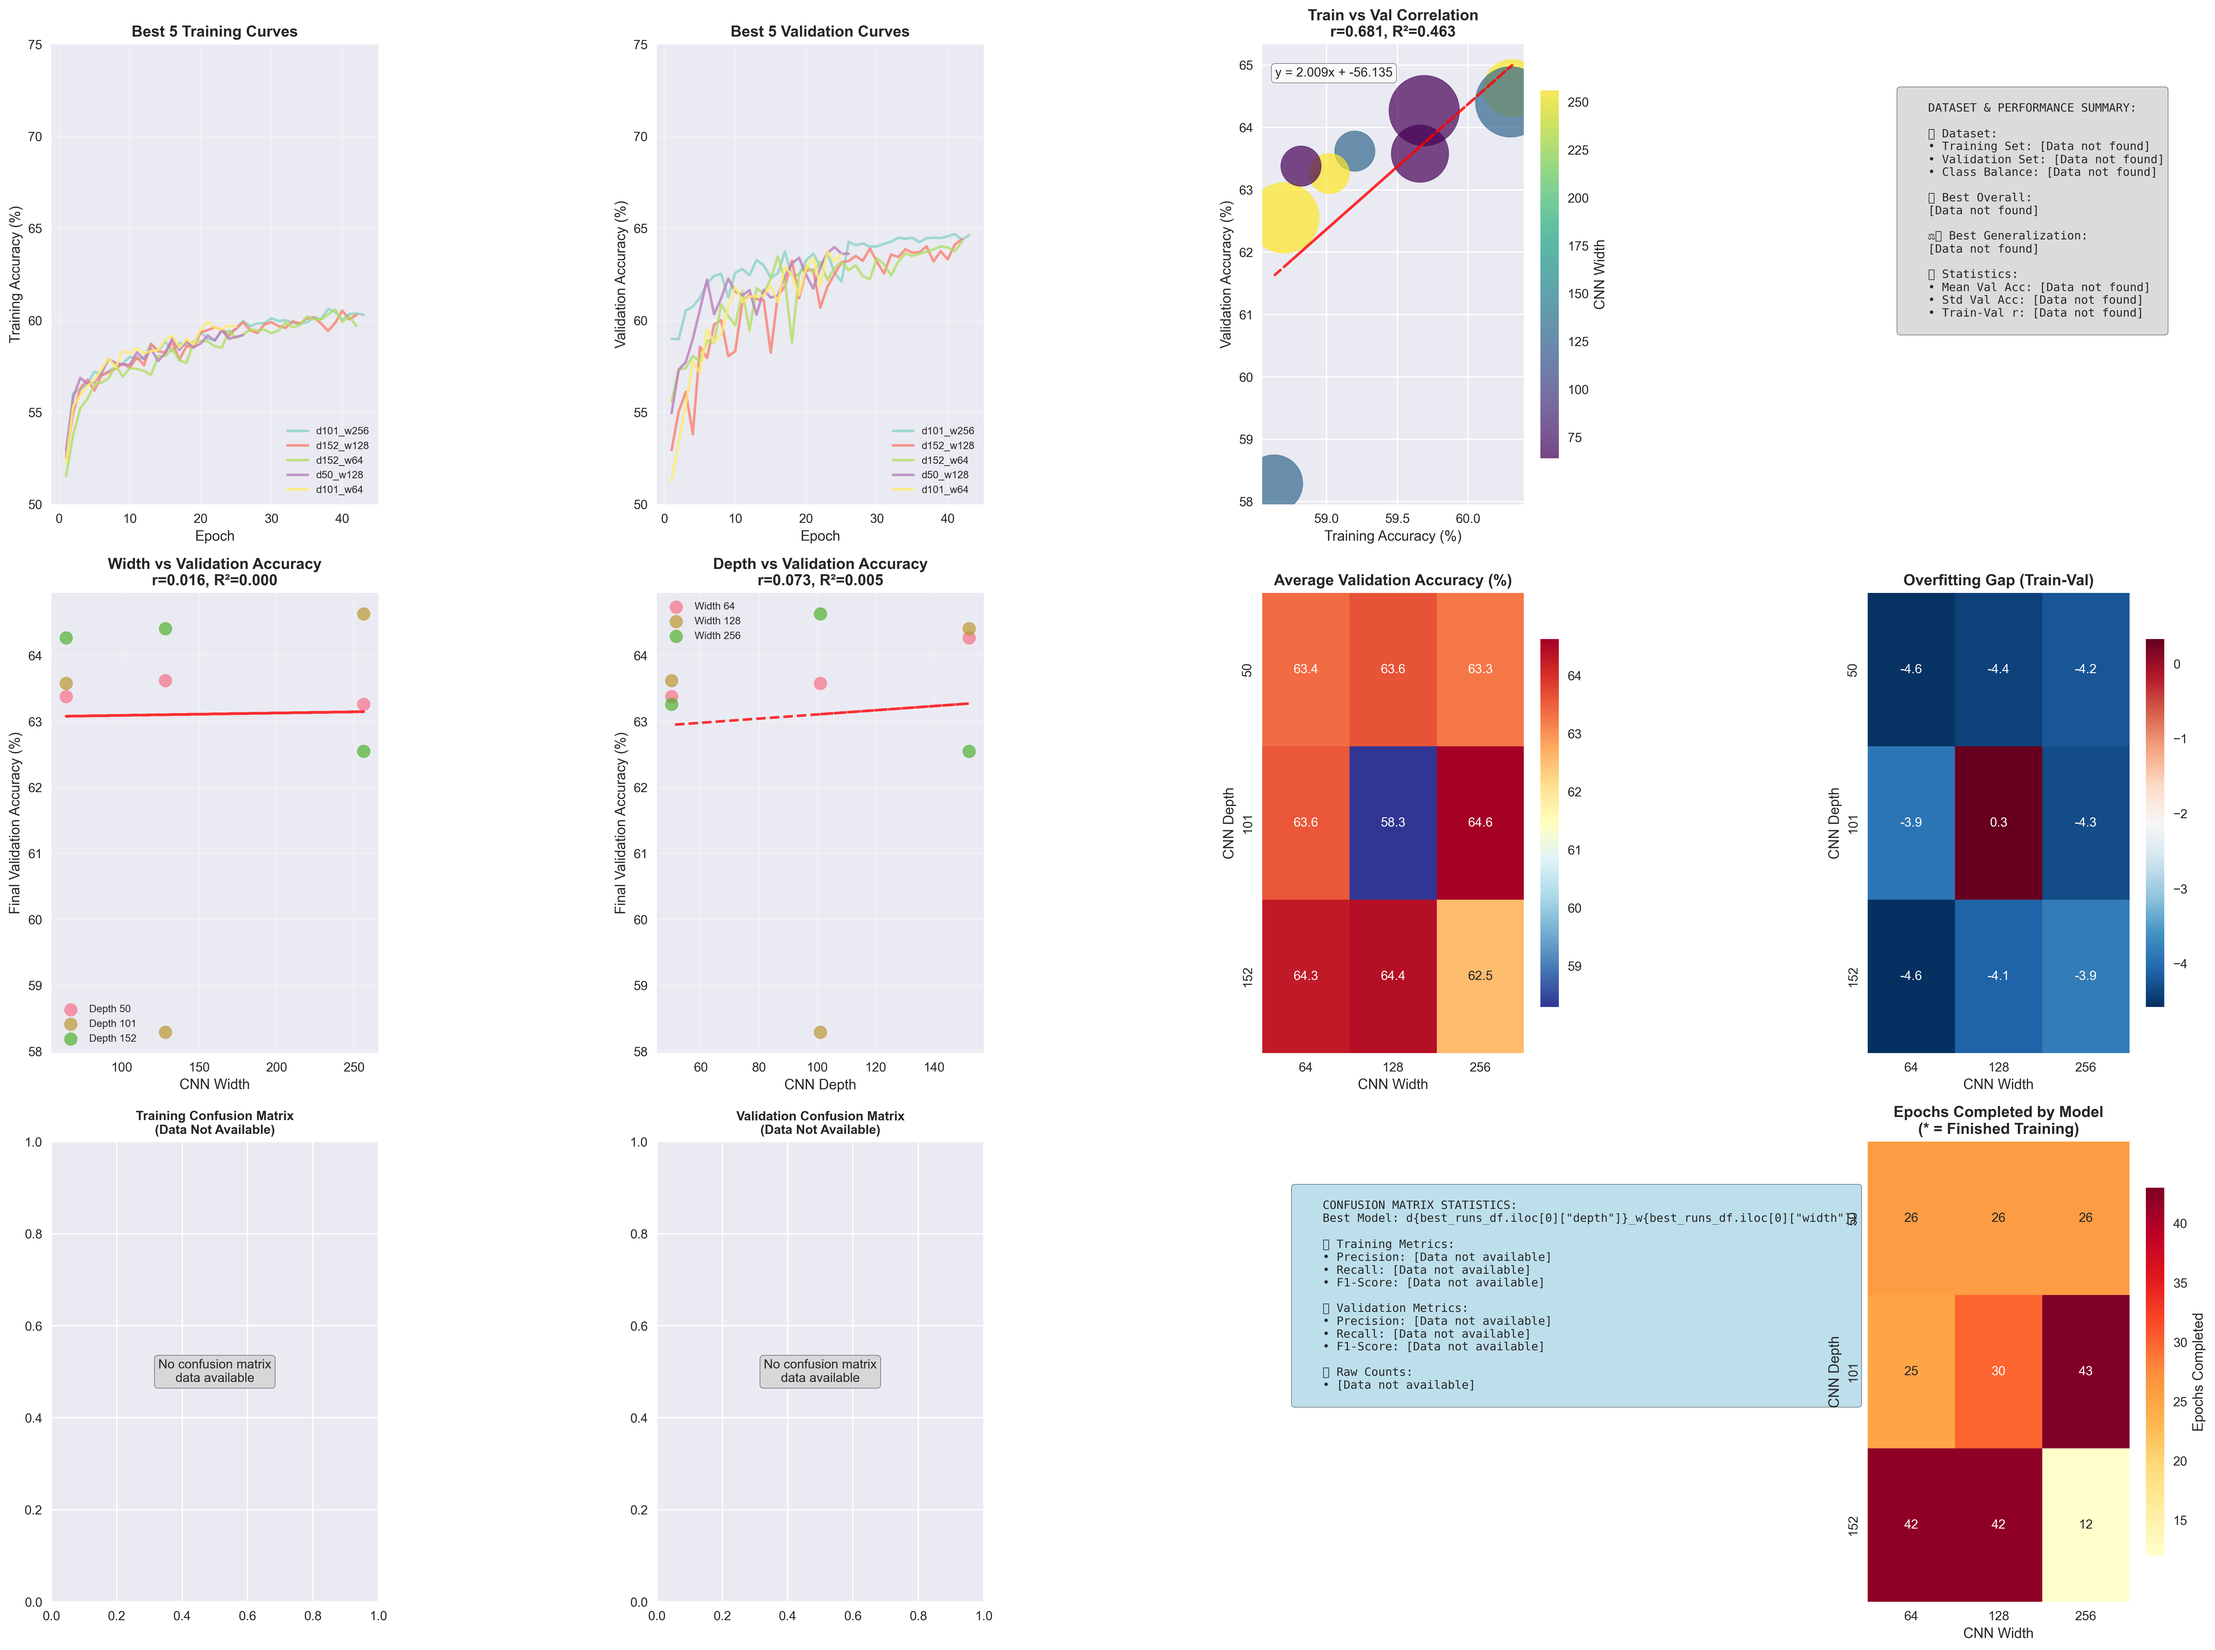
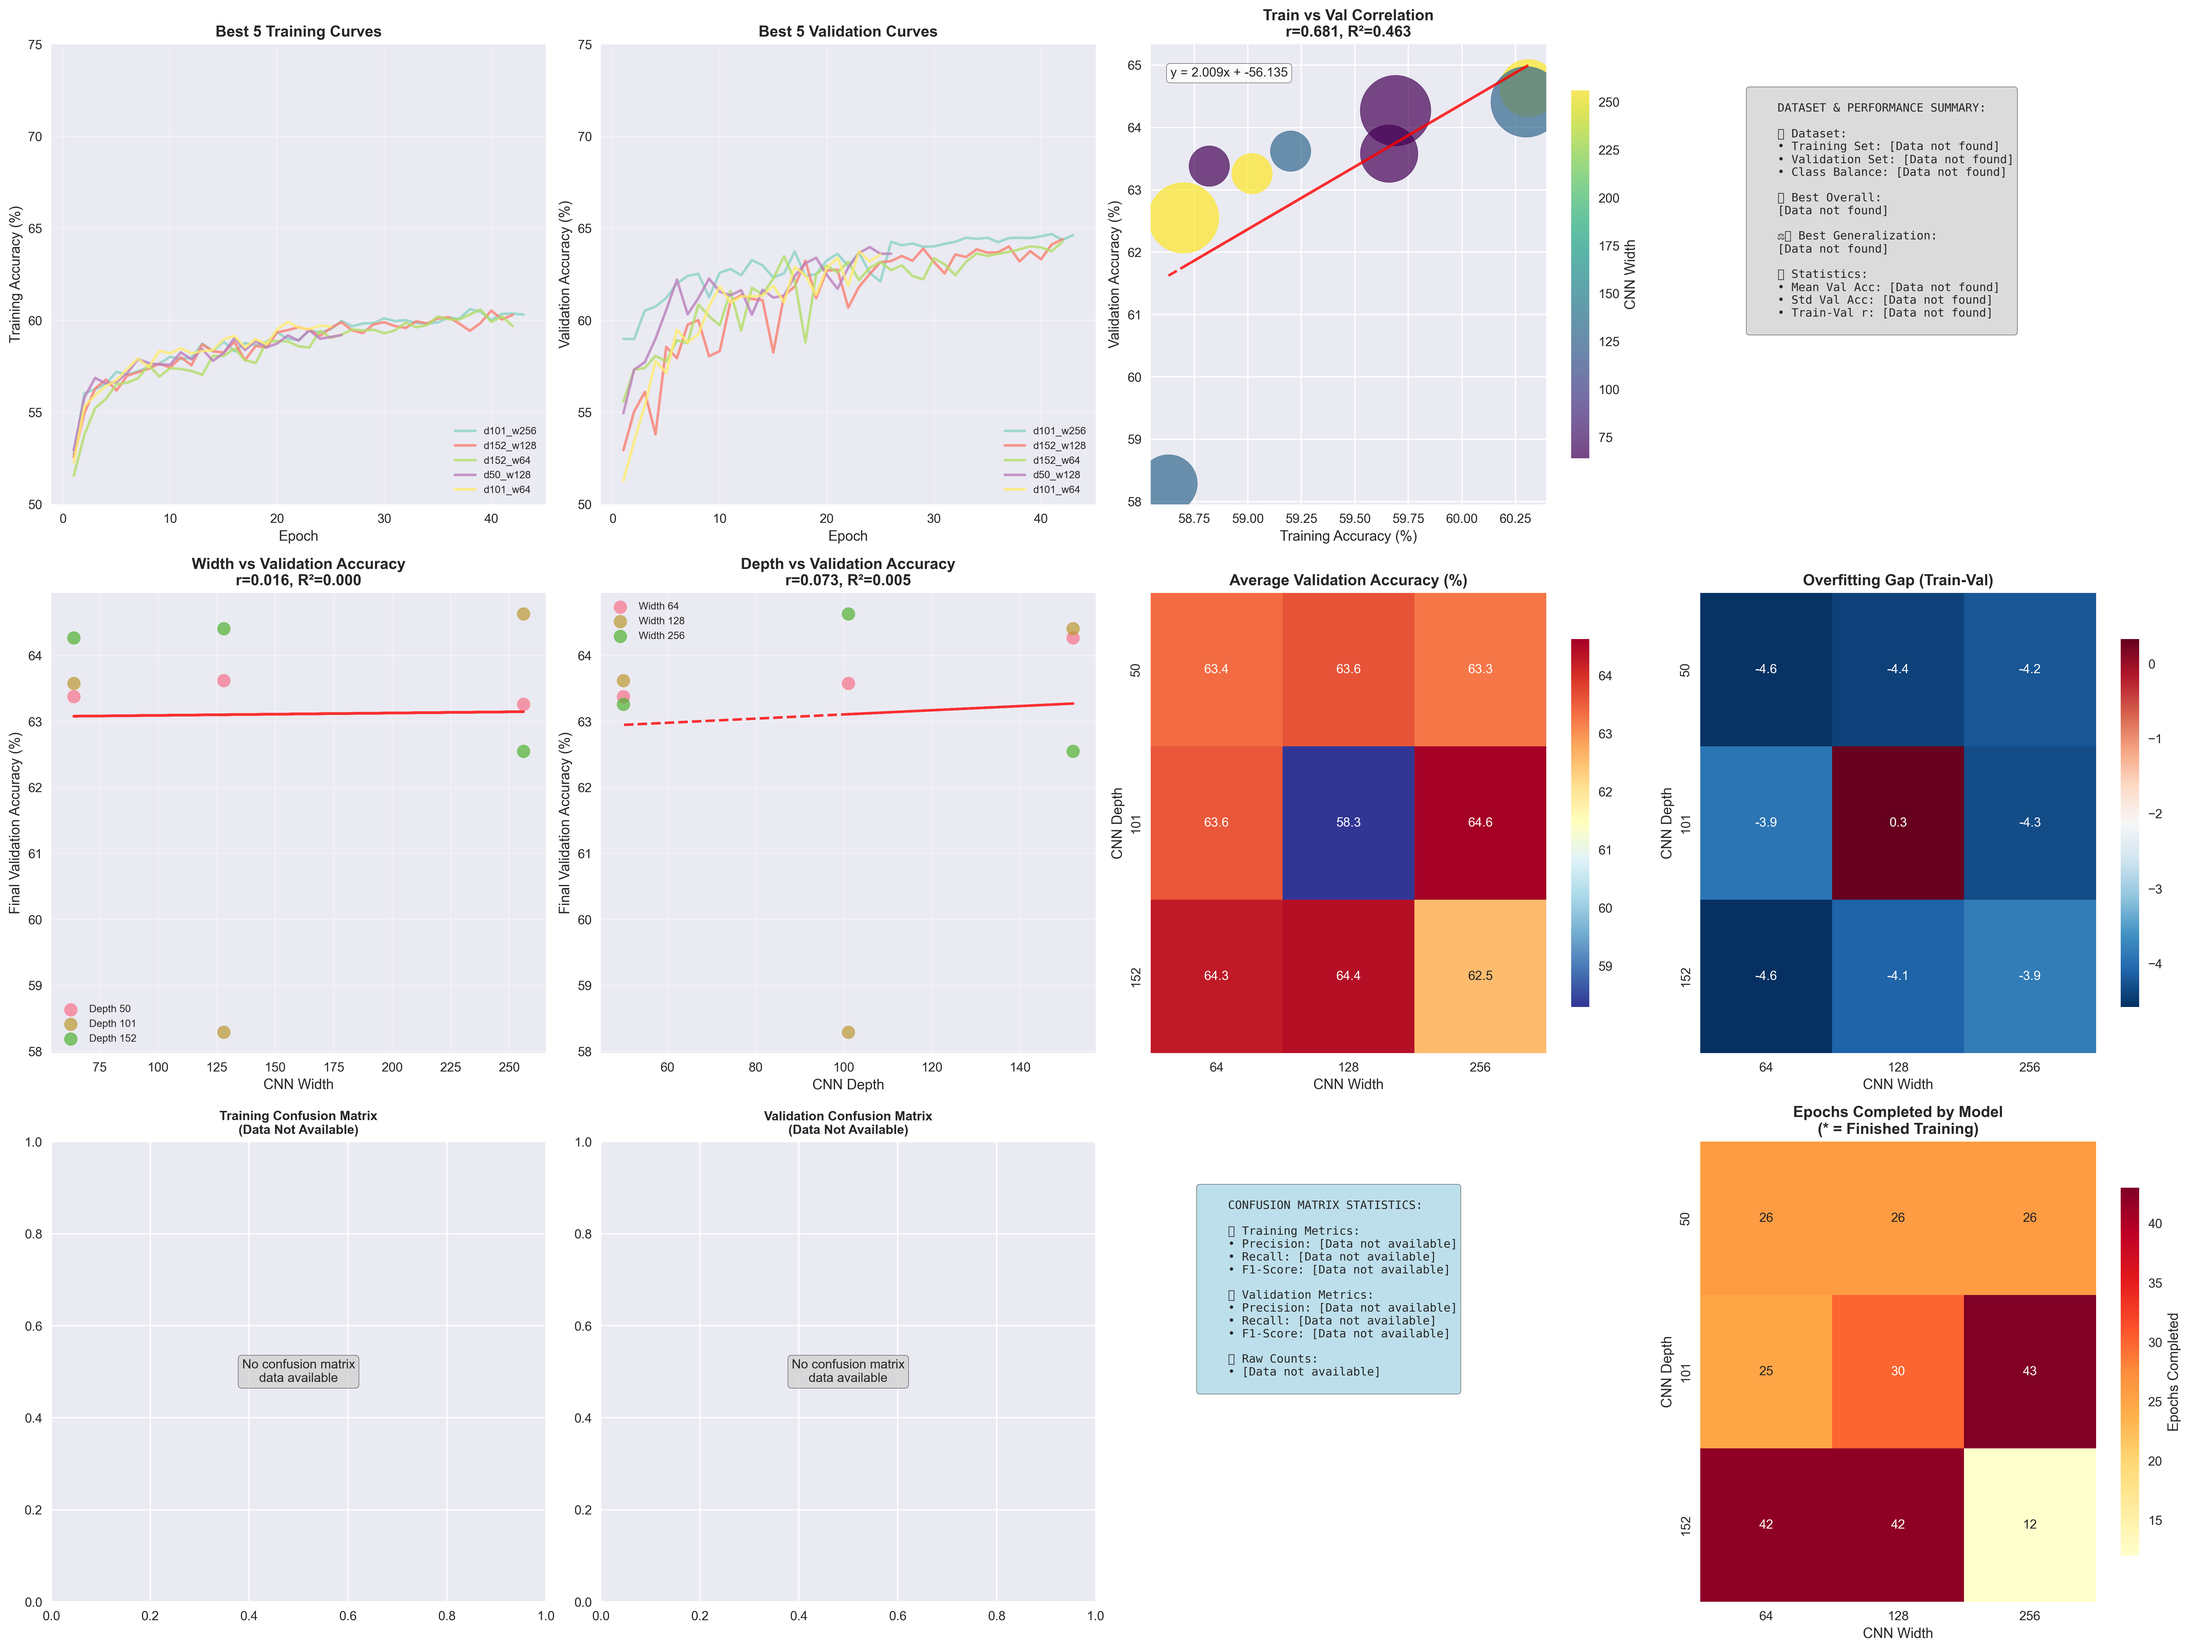
2 channels not 3

diff --git a/synapse_classifier_resnet.py b/synapse_classifier_resnet.py
@@ -235,16 +235,29 @@ class Synapse2DDataset(Dataset):
         # Augmentation
         data_slice, pre_slice, post_slice = self._augment(data_slice, pre_slice, post_slice)
 
-        # Percentile normalisation
-        if data_slice.max() > data_slice.min():
-            non_zero_mask = data_slice > 0
-            if np.any(non_zero_mask):
-                p5, p95 = np.percentile(data_slice[non_zero_mask], [5, 95])
-                data_slice = np.clip((data_slice - p5) / (p95 - p5 + 1e-8), 0, 1)
-            else: # All zero
-                data_slice = np.zeros((INPUT_XY, INPUT_XY))
+        # Create pre-masked and post-masked images
+        pre_masked_image = data_slice * pre_slice
+        post_masked_image = data_slice * post_slice
         
-        image = np.stack([data_slice, pre_slice, post_slice], axis=0)
+        # Percentile normalisation for each masked image
+        if pre_masked_image.max() > pre_masked_image.min():
+            non_zero_mask = pre_masked_image > 0
+            if np.any(non_zero_mask):
+                p5, p95 = np.percentile(pre_masked_image[non_zero_mask], [5, 95])
+                pre_masked_image = np.clip((pre_masked_image - p5) / (p95 - p5 + 1e-8), 0, 1)
+            else:
+                pre_masked_image = np.zeros((INPUT_XY, INPUT_XY))
+        
+        if post_masked_image.max() > post_masked_image.min():
+            non_zero_mask = post_masked_image > 0
+            if np.any(non_zero_mask):
+                p5, p95 = np.percentile(post_masked_image[non_zero_mask], [5, 95])
+                post_masked_image = np.clip((post_masked_image - p5) / (p95 - p5 + 1e-8), 0, 1)
+            else:
+                post_masked_image = np.zeros((INPUT_XY, INPUT_XY))
+        
+        # Stack as 2-channel input: [pre_masked, post_masked]
+        image = np.stack([pre_masked_image, post_masked_image], axis=0)
         image = torch.from_numpy(image.astype(np.float32))
 
         return image, label

diff --git a/sweep_analysis.py b/sweep_analysis.py
@@ -481,7 +481,6 @@ def create_comprehensive_analysis(df, save_path='comprehensive_sweep_analysis.pn
                 
                 cm_stats = f"""
     CONFUSION MATRIX STATISTICS:
-    Best Model: d{best_runs_df.iloc[0]["depth"]}_w{best_runs_df.iloc[0]["width"]}
     
     📊 Training Metrics:
     • Precision: {train_precision:.3f}
@@ -502,7 +501,6 @@ def create_comprehensive_analysis(df, save_path='comprehensive_sweep_analysis.pn
             else:
                 cm_stats = """
     CONFUSION MATRIX STATISTICS:
-    Best Model: d{best_runs_df.iloc[0]["depth"]}_w{best_runs_df.iloc[0]["width"]}
     
     📊 Training Metrics:
     • Precision: [Data not available]
@@ -520,7 +518,6 @@ def create_comprehensive_analysis(df, save_path='comprehensive_sweep_analysis.pn
         except:
             cm_stats = """
     CONFUSION MATRIX STATISTICS:
-    Best Model: d{best_runs_df.iloc[0]["depth"]}_w{best_runs_df.iloc[0]["width"]}
     
     📊 Training Metrics:
     • Precision: [Parse error]
@@ -538,7 +535,6 @@ def create_comprehensive_analysis(df, save_path='comprehensive_sweep_analysis.pn
     else:
         cm_stats = """
     CONFUSION MATRIX STATISTICS:
-    Best Model: d{best_runs_df.iloc[0]["depth"]}_w{best_runs_df.iloc[0]["width"]}
     
     📊 Training Metrics:
     • Precision: [Data not available]
